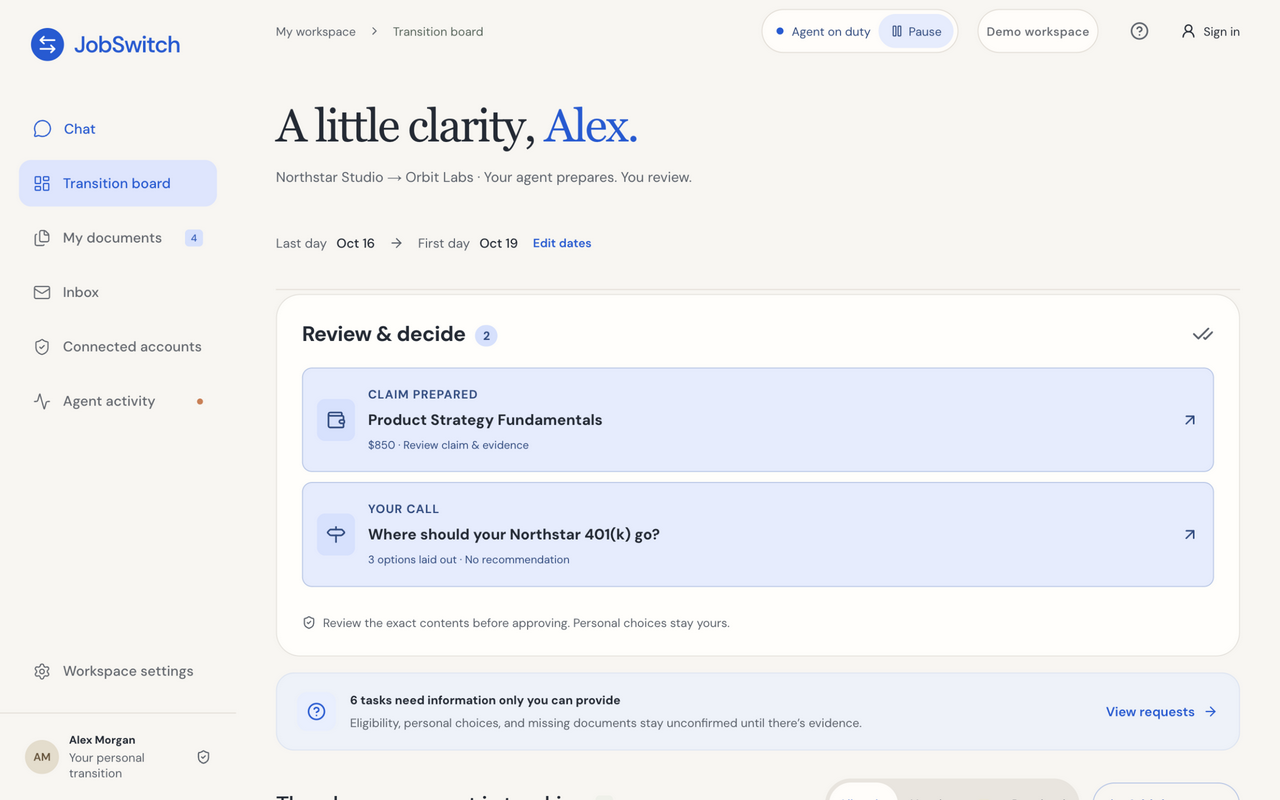
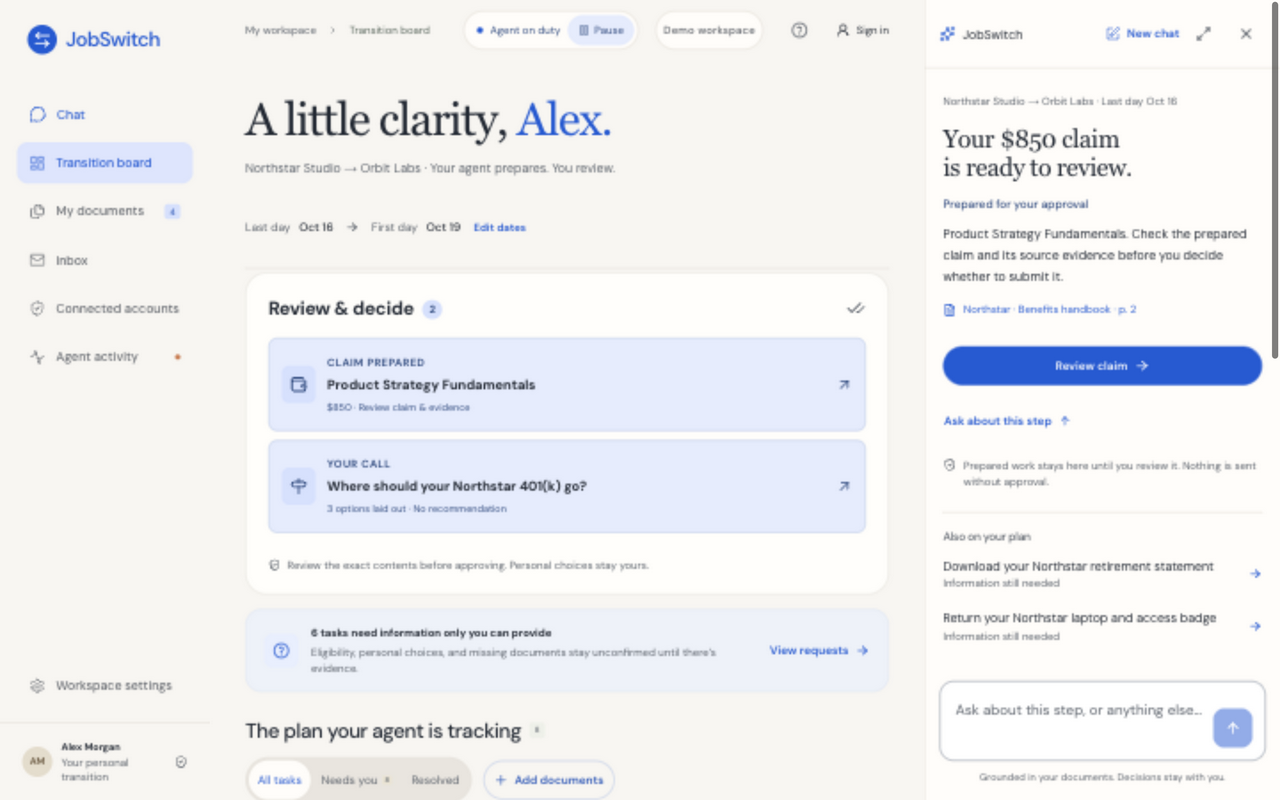
fix: keep the shared chat panel available on every page

diff --git a/components/dashboard.tsx b/components/dashboard.tsx
@@ -139,8 +139,27 @@ export default function Dashboard() {
   const [w, setW] = useState<Workspace | null>(null);
   const [page, setPage] = useState<Page>("chat");
   const isChat = page === "chat";
+  const [dockOpen, setDockOpen] = useState(false);
+  function navigatePage(next: Page) {
+    setPage(next);
+    if (next !== "chat" && !window.matchMedia("(min-width: 1100px)").matches) {
+      setDockOpen(false);
+    }
+  }
+  useEffect(() => {
+    const saved = window.localStorage.getItem("jobswitch.assistant");
+    setDockOpen(saved ? saved === "open" : window.matchMedia("(min-width: 1100px)").matches);
+  }, []);
+  function toggleDock(open: boolean) {
+    setDockOpen(open);
+    window.localStorage.setItem("jobswitch.assistant", open ? "open" : "closed");
+    requestAnimationFrame(() => {
+      const selector = open ? '[aria-label="Message your assistant"]' : '[aria-label="Open chat panel"]';
+      window.document.querySelector<HTMLElement>(selector)?.focus({ preventScroll: true });
+    });
+  }
   function backToChat() {
-    setPage("chat");
+    navigatePage("chat");
     requestAnimationFrame(() =>
       window.document
         .querySelector<HTMLTextAreaElement>(
@@ -218,7 +237,7 @@ export default function Dashboard() {
       new URLSearchParams(window.location.search).has("outlook") ||
       new URLSearchParams(window.location.search).has("connection")
     )
-      setPage("settings");
+      navigatePage("settings");
   }, [load]);
   useEffect(() => {
     if (!toast) return;
@@ -275,7 +294,7 @@ export default function Dashboard() {
       setW(json);
       setAgentTransportError(false);
       if (action === "new_workspace") {
-        setPage("board");
+        navigatePage("board");
         setSelected(null);
       }
       if (message) notify(message);
@@ -305,7 +324,7 @@ export default function Dashboard() {
     if (action.kind === "task") openTask(action.id);
     else if (action.kind === "upload") void openUpload();
     else if (action.kind === "resume") void act("agent_resume");
-    else setPage(action.kind === "settings" ? "settings" : "board");
+    else navigatePage(action.kind === "settings" ? "settings" : "board");
   }
   function openTask(id: string) {
     setSelected(id);
@@ -322,7 +341,7 @@ export default function Dashboard() {
           : f.view === "activity"
             ? "activity"
             : "board";
-    setPage(target);
+    navigatePage(target);
     setSelected(null);
     setViewDoc(null);
     if (f.view === "task" && f.id) {
@@ -446,7 +465,7 @@ export default function Dashboard() {
           .includes(taskSearch.toLowerCase())),
   );
   return (
-    <div className={`app-shell ${isChat ? "chat-first" : ""}`}>
+    <div className={`app-shell ${isChat ? "chat-first" : dockOpen ? "assistant-open" : ""}`}>
       <a href="#workspace-main" className="skip-link">
         Skip to workspace content
       </a>
@@ -473,7 +492,7 @@ export default function Dashboard() {
               aria-current={page === id ? "page" : undefined}
               className={`nav-item ${page === id ? "active" : ""}`}
               onClick={() => {
-                setPage(id);
+                navigatePage(id);
                 setSelected(null);
               }}
             >
@@ -493,7 +512,7 @@ export default function Dashboard() {
             aria-label="Workspace settings"
             aria-current={page === "settings" ? "page" : undefined}
             className={`nav-item ${page === "settings" ? "active" : ""}`}
-            onClick={() => setPage("settings")}
+            onClick={() => navigatePage("settings")}
           >
             <Settings size={18} />
             Workspace settings
@@ -564,7 +583,7 @@ export default function Dashboard() {
                 </span>
               </button>
             </div>
-            <button className="demo-pill" onClick={() => setPage("settings")}>
+            <button className="demo-pill" onClick={() => navigatePage("settings")}>
               {practice
                 ? "Practice case"
                 : w.demo
@@ -599,8 +618,11 @@ export default function Dashboard() {
             transition={`${w.profile.previousEmployer || "Your current job"} → ${w.profile.nextEmployer || "Your next job"} · Last day ${date(w.profile.lastDay)}`}
             busy={!!busy}
             onAction={runOrientationAction}
-            visible={isChat}
-            openPlan={() => setPage("board")}
+            visible={isChat || dockOpen}
+            docked={!isChat}
+            close={() => toggleDock(false)}
+            expand={backToChat}
+            openPlan={() => navigatePage("board")}
           />
           {isChat && (
             <aside
@@ -623,7 +645,7 @@ export default function Dashboard() {
                   <dd>{date(w.profile.startDay)}</dd>
                 </div>
               </dl>
-              <button className="summary-link" onClick={() => setPage("board")}>
+              <button className="summary-link" onClick={() => navigatePage("board")}>
                 <LayoutDashboard size={17} />
                 <span>
                   View your plan
@@ -633,7 +655,7 @@ export default function Dashboard() {
               </button>
               <button
                 className="summary-link"
-                onClick={() => setPage("documents")}
+                onClick={() => navigatePage("documents")}
               >
                 <Files size={17} />
                 <span>
@@ -644,7 +666,7 @@ export default function Dashboard() {
                 </span>
                 <ChevronRight size={16} />
               </button>
-              <button className="summary-link" onClick={() => setPage("inbox")}>
+              <button className="summary-link" onClick={() => navigatePage("inbox")}>
                 <Mail size={17} />
                 <span>
                   Inbox<small>HR replies and updates</small>
@@ -714,7 +736,7 @@ export default function Dashboard() {
                       busy={busy}
                       act={act}
                       openTask={openTask}
-                      chooseCase={() => setPage("settings")}
+                      chooseCase={() => navigatePage("settings")}
                     />
                   )}
                   {!w.documents.length && (
@@ -1218,6 +1240,17 @@ export default function Dashboard() {
           </section>
         </main>
       </div>
+      {!isChat && !dockOpen && (
+        <button
+          className="assistant-launcher"
+          aria-label="Open chat panel"
+          aria-controls="workspace-assistant"
+          aria-expanded={false}
+          onClick={() => toggleDock(true)}
+        >
+          <MessageCircle size={19} /> Ask JobSwitch
+        </button>
+      )}
       {toast && (
         <ModalNotice>
           <div

diff --git a/app/workspace/workspace.css b/app/workspace/workspace.css
@@ -2164,3 +2164,76 @@
 
 
 .app-shell .assistant-primary[hidden], .app-shell .workspace-pages[hidden] { display: none; }
+
+/* The same conversation also stays beside every other workspace page. */
+.app-shell .assistant-primary.assistant-dock {
+  position: fixed;
+  inset: 0 0 0 auto;
+  width: 400px;
+  max-width: 100vw;
+  z-index: 30;
+  background: var(--surface);
+  border-left: 1px solid var(--line);
+  padding-bottom: 16px;
+}
+.app-shell .assistant-dock > header {
+  padding: 16px;
+  border-bottom: 1px solid var(--line);
+  flex-shrink: 0;
+}
+.app-shell .assistant-dock .assistant-actions { gap: 4px; }
+.app-shell .assistant-dock .chat-viewport { padding: 20px; }
+.app-shell .assistant-dock .arrival-briefing { margin: 8px 0 0; }
+.app-shell .assistant-dock .briefing-title {
+  font: 400 28px/1.15 Georgia, "Times New Roman", serif;
+  letter-spacing: -0.02em;
+  text-wrap: balance;
+}
+.app-shell .assistant-dock .briefing-transition { margin-bottom: 16px; }
+.app-shell .assistant-dock .briefing-body,
+.app-shell .assistant-dock .chat-message { font-size: 14px; }
+.app-shell .assistant-dock .briefing-source q { display: none; }
+.app-shell .assistant-dock .briefing-action { width: 100%; justify-content: center; }
+.app-shell .assistant-dock .briefing-ask { margin-left: 0; }
+.app-shell .assistant-dock .chat-composer { margin: 12px 16px 0; }
+.app-shell .assistant-dock .next-step-strip { margin-inline: 16px; }
+.app-shell .assistant-launcher {
+  position: fixed;
+  right: 24px;
+  bottom: 24px;
+  z-index: 30;
+  display: inline-flex;
+  align-items: center;
+  gap: 9px;
+  padding: 0 20px;
+  min-height: 50px;
+  border: 0;
+  border-radius: 30px;
+  background: var(--accent);
+  color: white;
+  font-size: 14px;
+}
+.app-shell .assistant-launcher:hover { background: #0055df; }
+@media (min-width: 1100px) {
+  .app-shell.assistant-open .main-shell { margin-right: 400px; }
+  .app-shell.assistant-open .working-indicator { right: 420px; }
+  .app-shell.assistant-open .topbar {
+    height: auto;
+    min-height: 62px;
+    flex-wrap: wrap;
+    gap: 12px;
+    padding-block: 12px;
+  }
+  .app-shell.assistant-open .topbar-right { flex-wrap: wrap; }
+}
+@media (max-width: 1099px) {
+  .app-shell .assistant-primary.assistant-dock { width: min(420px, calc(100vw - 60px)); }
+  .app-shell.assistant-open .workspace-pages { visibility: hidden; }
+}
+@media (max-width: 720px) {
+  .app-shell .assistant-dock .conversation-title { display: none; }
+  .app-shell .assistant-dock .assistant-actions { justify-content: flex-end; }
+  .app-shell .assistant-dock .assistant-actions > :first-child { margin-right: auto; }
+  .app-shell .assistant-dock > header { padding: 8px 12px; }
+  .app-shell .assistant-dock .chat-viewport { padding: 16px; }
+}

diff --git a/components/assistant.tsx b/components/assistant.tsx
@@ -23,6 +23,8 @@ import {
   FileText,
   SquarePen,
   ShieldCheck,
+  X,
+  Maximize2,
 } from "lucide-react";
 import {
   createContext,
@@ -132,6 +134,9 @@ type AssistantProps = {
   transition: string;
   busy: boolean;
   visible: boolean;
+  docked: boolean;
+  close: () => void;
+  expand: () => void;
   openPlan: () => void;
   onAction: (action: OrientationAction) => void;
   onFocus: (focus: WorkspaceFocus, automatic?: boolean) => void;
@@ -151,6 +156,9 @@ function AssistantConversation({
   transition,
   busy,
   visible,
+  docked,
+  close,
+  expand,
   openPlan,
   onAction,
   onFocus,
@@ -169,7 +177,14 @@ function AssistantConversation({
   ).current;
   return (
     <section
-      className="assistant-primary"
+      id="workspace-assistant"
+      className={`assistant-primary ${docked ? "assistant-dock" : ""}`}
+      onKeyDown={(event) => {
+        if (docked && event.key === "Escape") {
+          event.stopPropagation();
+          close();
+        }
+      }}
       aria-label="Chat with JobSwitch"
       hidden={!visible}
     >
@@ -195,9 +210,20 @@ function AssistantConversation({
           >
             <SquarePen size={16} /> New chat
           </button>
-          <button className="text-button chat-plan-toggle" onClick={openPlan}>
-            <LayoutDashboard size={16} /> Your plan
-          </button>
+          {docked ? (
+            <>
+              <button className="icon-button" aria-label="Open full Chat tab" onClick={expand}>
+                <Maximize2 size={17} />
+              </button>
+              <button className="icon-button" aria-label="Close chat panel" onClick={close}>
+                <X size={18} />
+              </button>
+            </>
+          ) : (
+            <button className="text-button chat-plan-toggle" onClick={openPlan}>
+              <LayoutDashboard size={16} /> Your plan
+            </button>
+          )}
         </div>
       </header>
       <FocusContext.Provider value={{ apply, applied }}>
@@ -207,7 +233,7 @@ function AssistantConversation({
               <ThreadPrimitive.Empty>
                 <div className="arrival-briefing">
                   <p className="briefing-transition">{transition}</p>
-                  <h1>{briefing.primary.title}</h1>
+                  {docked ? <h2 className="briefing-title">{briefing.primary.title}</h2> : <h1>{briefing.primary.title}</h1>}
                   <p className="briefing-reason">{briefing.primary.reason}</p>
                   <p className="briefing-body">{briefing.primary.body}</p>
                   {briefing.primary.evidence && (

diff --git a/docs/decisions/2026-10-04-223335-codex-chat-on-every-page.md b/docs/decisions/2026-10-04-223335-codex-chat-on-every-page.md
@@ -1,0 +1,32 @@
+# Keep chat available beside every workspace page
+
+- Date: 2026-10-04 (UTC)
+- Status: accepted
+- Owner: Codex, implementing MJ’s explicit correction
+
+## Context
+
+MJ clarified that preserving the other pages includes their right-hand assistant. Making Chat the first tab must not require leaving a page to ask a question.
+
+## Decision
+
+Keep the full Chat tab first in navigation and restore the right-hand chat panel on Transition board, Documents, Inbox, Connected accounts, Activity, and Settings. Both presentations use one mounted conversation, retaining messages, streaming responses, and drafts. The panel can close, reopen from Ask JobSwitch, or expand into the Chat tab. Remember its open/closed preference, defaulting to open on desktop and closed on narrow screens.
+
+On narrow screens, the panel occupies the workspace area while leaving navigation available. Closing it or opening a source returns to the page. Explicit reference clicks change pages; automatic tool results remain in the conversation.
+
+## Rationale
+
+People can ask about what they are looking at without losing their place. The Chat tab remains the spacious arrival experience while the panel supports work elsewhere.
+
+## Consequences
+
+This supersedes only the hidden-chat-on-other-pages behavior in the [preserved pages decision](2026-10-04-222054-codex-chat-tab-preserve-pages.md). The page layouts and approval controls remain intact. Conversation persistence remains in memory until reload or New chat. The PR remains open and unmerged as requested.
+
+## Validation
+
+Typecheck, all 87 tests, production build, and diff checks passed. T3 inspection covered all six pages with the panel open at desktop size; no page content overflow. At 1280px, the toolbar wraps without being covered. At 390px, the launcher opens the panel, close/Escape restores the page, and navigation/source links reveal the selected page. A draft survived collapse/reopen and expansion, and a live assistant reply remained identical across presentations. Desktop board/documents and mobile launcher/panel screenshots are in PR #25. No claim, email, or portal action was submitted; provider connections and authenticated sign-in were not retested.
+
+## Links
+
+- [PR #25](https://github.com/mjkang-estrella/personal-agent-hackathon/pull/25)
+- [Original docked assistant decision](2026-10-04-213638-mj-workspace-assistant-focus.md)

diff --git a/docs/ui-development.md b/docs/ui-development.md
@@ -12,7 +12,7 @@ Use familiar icons to support labels and scanning. Icon-only controls need acces
 
 ## Lead with conversation
 
-The workspace opens with a clear next step at every screen size. Use saved workspace state to explain what needs attention, why, and one concrete action before asking the user to invent a question. Keep this briefing visible on mobile as well as desktop. Chat helps the person understand and complete the step. Keep the conversation spacious and the composer visible. Keep Chat first in navigation, directly above Transition board. Preserve the other tabs as full workspace pages with their established layouts and controls; do not compress them into a chat side panel. Keep chat mounted so messages and drafts survive navigation. Assistant references stay in the conversation until clicked, then open the appropriate full page. Return through the Chat tab. See the [arrival briefing decision](decisions/2026-10-04-215622-codex-chat-first-workspace.md) and [preserved pages decision](decisions/2026-10-04-222054-codex-chat-tab-preserve-pages.md).
+The workspace opens with a clear next step at every screen size. Use saved workspace state to explain what needs attention, why, and one concrete action before asking the user to invent a question. Keep this briefing visible on mobile as well as desktop. Chat helps the person understand and complete the step. Keep the conversation spacious and the composer visible. Keep Chat first in navigation, directly above Transition board. Preserve the other tabs as full workspace pages with their established layouts and controls; do not compress them into a chat side panel. Keep the right-hand assistant available on every other page, with collapse/reopen controls and expansion into the full Chat tab. Both presentations share one mounted conversation so messages and drafts survive navigation. Assistant references stay in the conversation until clicked, then open the appropriate full page. On narrow screens, open the panel from its launcher and return to the page when it closes. See the [arrival briefing decision](decisions/2026-10-04-215622-codex-chat-first-workspace.md), [preserved pages decision](decisions/2026-10-04-222054-codex-chat-tab-preserve-pages.md), and [chat on every page decision](decisions/2026-10-04-223335-codex-chat-on-every-page.md).
 
 ## Organize around the person’s next decision
 

diff --git a/docs/decisions/2026-10-04-222054-codex-chat-tab-preserve-pages.md b/docs/decisions/2026-10-04-222054-codex-chat-tab-preserve-pages.md
@@ -32,3 +32,7 @@ Typecheck, all 87 unit tests, and production build passed. T3 inspection at 1280
 
 - [PR #25](https://github.com/mjkang-estrella/personal-agent-hackathon/pull/25)
 - [UI guide](../ui-development.md)
+
+## Subsequent correction
+
+The hidden-chat-on-other-pages behavior is superseded by [chat on every page](2026-10-04-223335-codex-chat-on-every-page.md): the right-hand assistant remains available alongside the full Chat tab.
